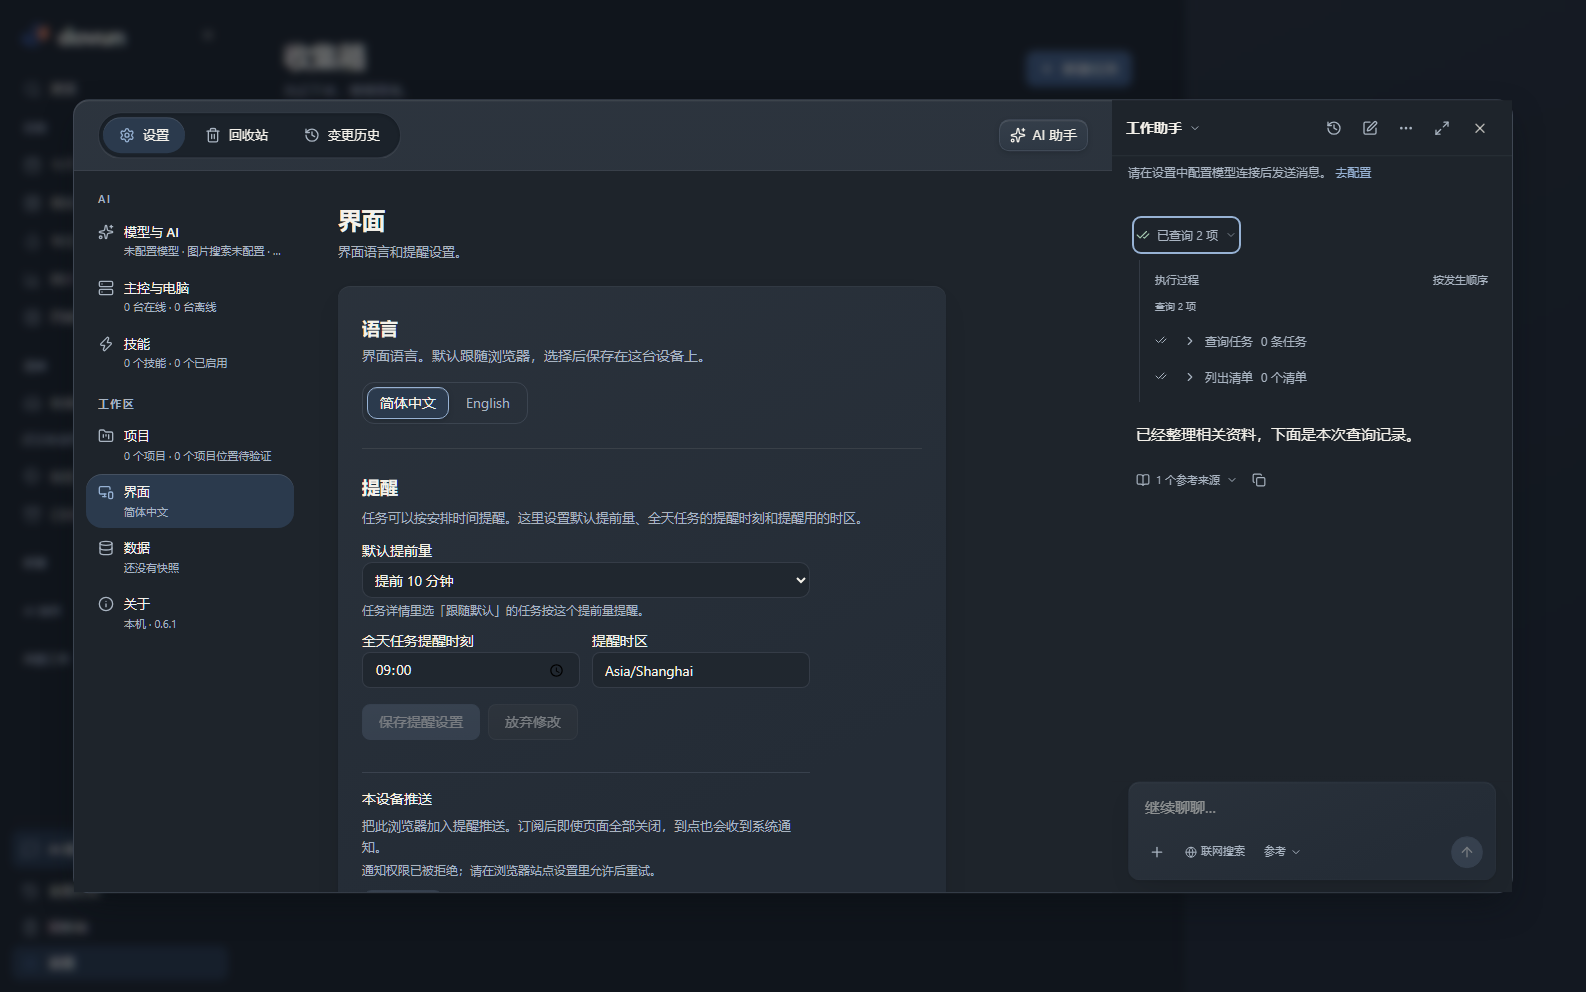
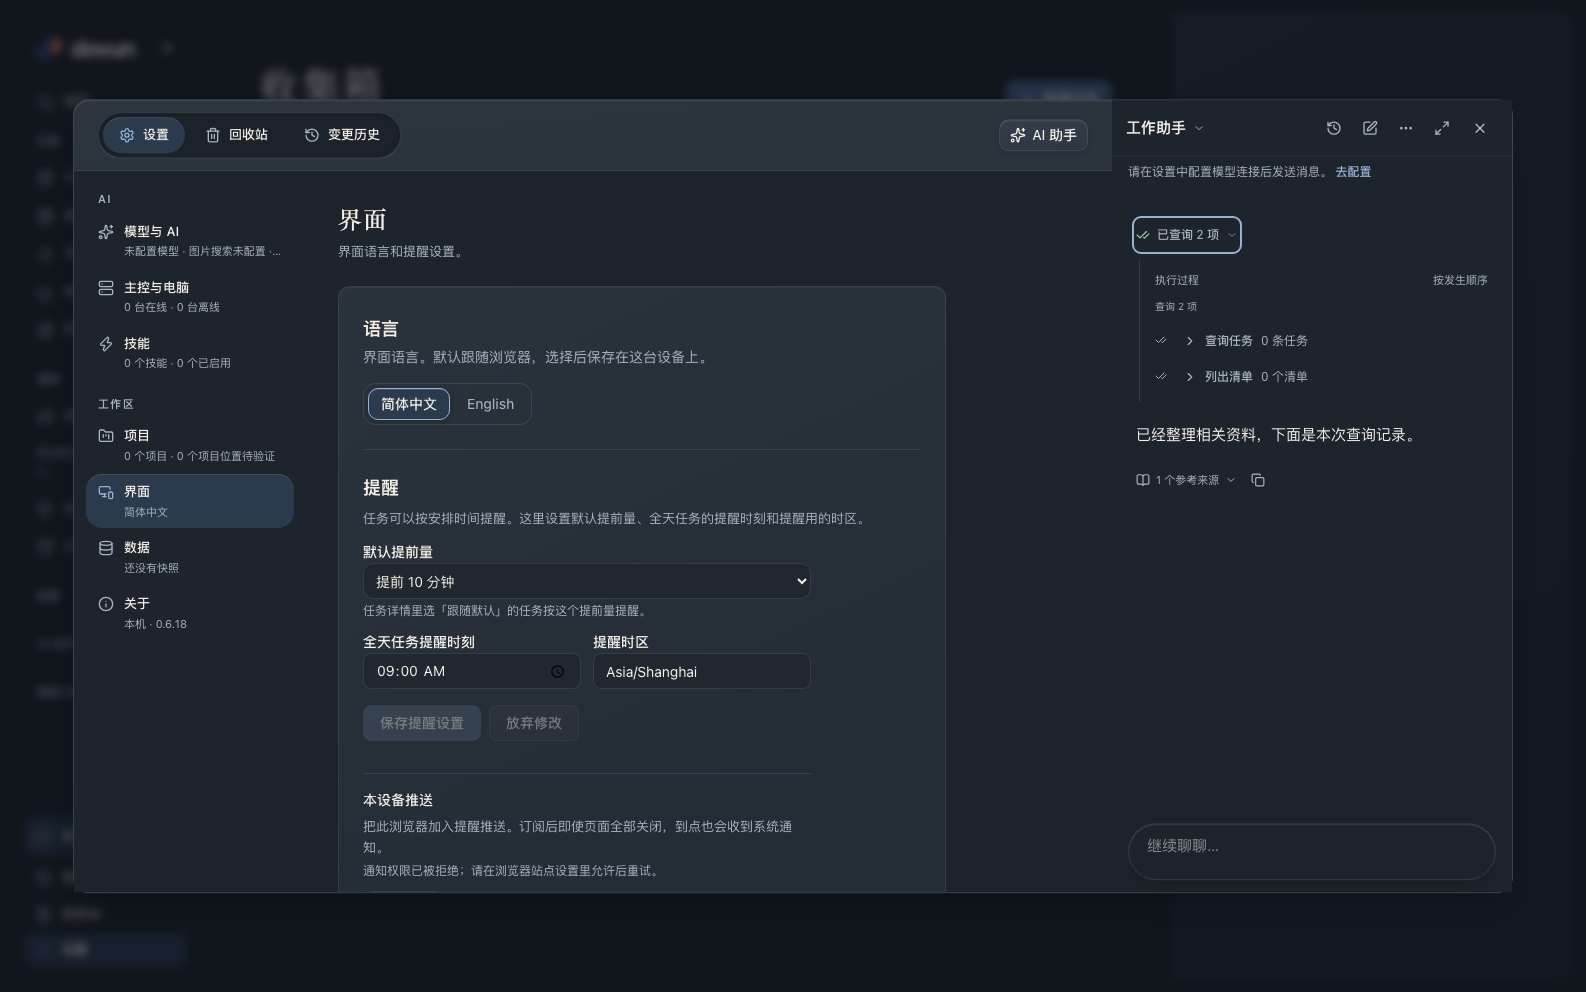
Give the assistant composer glass depth and capsule collapse

diff --git a/client/src/components/chat/ChatPanel.tsx b/client/src/components/chat/ChatPanel.tsx
@@ -141,10 +141,9 @@ export function ChatPanel({ chat, identityId = 'work', onSwitchIdentity, onClose
       <div className="assistant-composer-area shrink-0" data-testid="assistant-context">
         {mobile && onOpenNavigation && <div className="assistant-nav-row"><Button variant="ghost" size="icon" className="assistant-nav-bubble" aria-label={t('app:shell.mainNav')} title={t('app:shell.mainNav')} onClick={onOpenNavigation}><PanelLeft className="size-4" /></Button></div>}
         {chat.attachments.length > 0 && <div className="assistant-attachments">{chat.attachments.map((item) => <div className="assistant-attachment" key={item.id}><span className="min-w-0 flex-1 truncate">{t(item.unsaved ? 'chatPanel.unsavedAttachment' : 'chatPanel.selectedAttachment', { title: item.title })}</span><Button variant="ghost" size="icon-xs" onClick={() => chat.removeAttachment(item.id)} aria-label={t('chatPanel.removeAttachment', { title: item.title })}><X /></Button></div>)}</div>}
-        <ChatComposer input={input} busy={busy} reference={referencedApproval} onChange={setInput} onSend={send} onCancelReference={clearReference} placeholder={messages.length ? t('composer.continuePlaceholder') : t('composer.placeholder')} onStop={() => void chat.stop()} stopping={chat.stopping} model={<ChatModelPicker settings={settings.data} disabled={busy} />} contextUsage={<Button ref={usageTrigger} type="button" variant="plain" size="bare" className="assistant-context-trigger shrink-0" data-testid="context-usage-trigger" aria-label={t('usage.open')} title={t('usage.open')} onClick={() => setUsageOpen(true)}>{t('usage.shortTitle')}</Button>} toolbar={<>
+        <ChatComposer input={input} busy={busy} reference={referencedApproval} onChange={setInput} onSend={send} onCancelReference={clearReference} placeholder={messages.length ? t('composer.continuePlaceholder') : t('composer.placeholder')} onStop={() => void chat.stop()} stopping={chat.stopping} model={<ChatModelPicker settings={settings.data} disabled={busy} />} contextUsage={<Button ref={usageTrigger} type="button" variant="plain" size="bare" className="assistant-context-trigger shrink-0" data-testid="context-usage-trigger" aria-label={t('usage.open')} title={t('usage.open')} onClick={() => setUsageOpen(true)}>{t('usage.shortTitle')}</Button>} contextPill={chat.context && <Popover><PopoverTrigger asChild><Button variant="plain" size="bare" type="button" className="assistant-context-trigger shrink-0" data-testid="assistant-context-trigger" title={chat.contextCleared ? t('chatPanel.noReference') : chat.context.label}><span>{t(chat.pinned ? 'chatPanel.referencePinned' : 'chatPanel.reference')}{materialCount > 0 && ` · ${materialCount}`}</span><span className="sr-only"> {chat.contextCleared ? t('chatPanel.noReference') : chat.context.label}</span><ChevronDown className="size-3" /></Button></PopoverTrigger><PopoverContent data-assistant-floating side="top" onEscapeKeyDown={event => event.stopPropagation()} className="w-80 max-w-[calc(100vw-2rem)] p-3"><h3 className="mb-2 text-sm font-semibold">{t('chatPanel.referenceScope')}</h3>{chat.contextCleared ? <p className="py-1 text-xs text-muted-foreground">{t('chatPanel.noReference')}</p> : <ContextSummary context={chat.context} />}<div className="mt-2 flex flex-wrap gap-2"><Button size="sm" variant="ghost" onClick={chat.pinContext}>{t('chatPanel.pinContext')}</Button><Button size="sm" variant="ghost" disabled={chat.contextCleared && chat.attachments.length === 0} onClick={chat.clearContext}>{t('chatPanel.clearContext')}</Button></div></PopoverContent></Popover>} toolbar={<>
           <ChatReferencePicker selectedIds={chat.context?.selectedMaterialIds ?? []} onSelect={chat.addMaterial} />
           <WebSearchToggle enabled={chat.webSearchEnabled} busy={busy} onToggle={chat.setWebSearch} />
-          {chat.context && <Popover><PopoverTrigger asChild><Button variant="plain" size="bare" type="button" className="assistant-context-trigger" data-testid="assistant-context-trigger" title={chat.contextCleared ? t('chatPanel.noReference') : chat.context.label}><span>{t(chat.pinned ? 'chatPanel.referencePinned' : 'chatPanel.reference')}{materialCount > 0 && ` · ${materialCount}`}</span><span className="sr-only"> {chat.contextCleared ? t('chatPanel.noReference') : chat.context.label}</span><ChevronDown className="size-3" /></Button></PopoverTrigger><PopoverContent data-assistant-floating side="top" onEscapeKeyDown={event => event.stopPropagation()} className="w-80 max-w-[calc(100vw-2rem)] p-3"><h3 className="mb-2 text-sm font-semibold">{t('chatPanel.referenceScope')}</h3>{chat.contextCleared ? <p className="py-1 text-xs text-muted-foreground">{t('chatPanel.noReference')}</p> : <ContextSummary context={chat.context} />}<div className="mt-2 flex flex-wrap gap-2"><Button size="sm" variant="ghost" onClick={chat.pinContext}>{t('chatPanel.pinContext')}</Button><Button size="sm" variant="ghost" disabled={chat.contextCleared && chat.attachments.length === 0} onClick={chat.clearContext}>{t('chatPanel.clearContext')}</Button></div></PopoverContent></Popover>}
         </>} />
       </div>
       {usageOpen && <Modal title={t('usage.title')} onClose={() => setUsageOpen(false)} onCloseAutoFocus={event => { event.preventDefault(); if (usageTrigger.current?.getClientRects().length) usageTrigger.current.focus(); }} data-assistant-floating className="assistant-usage-dialog"><header className="mb-3 flex justify-end"><Button variant="ghost" size="icon-sm" aria-label={t('chatPanel.closeDetails')} onClick={() => setUsageOpen(false)}><X /></Button></header><ContextUsageDetails stats={chat.contextStats} preview={chat.contextPreview} busy={busy} onNavigate={() => setUsageOpen(false)} /></Modal>}

diff --git a/client/src/components/chat/ChatComposer.tsx b/client/src/components/chat/ChatComposer.tsx
@@ -8,7 +8,7 @@ import { Textarea } from '@/components/ui/textarea.js';
 
 const LINE_HEIGHT = 20;
 const INPUT_PAD = 8;
-const EXPANDED_LINES = 3;
+const EXPANDED_LINES = 4;
 const MAX_LINES = 8;
 
 type ChatComposerProps = {
@@ -20,6 +20,7 @@ type ChatComposerProps = {
   onCancelReference?: () => void;
   toolbar?: ReactNode;
   contextUsage?: ReactNode;
+  contextPill?: ReactNode;
   model?: ReactNode;
   onStop?: () => void;
   stopping?: boolean;
@@ -33,7 +34,7 @@ type ChatComposerProps = {
 };
 
 export function ChatComposer({
-  input, busy, reference, onChange, onSend, onCancelReference, toolbar, contextUsage, model, onStop, stopping,
+  input, busy, reference, onChange, onSend, onCancelReference, toolbar, contextUsage, contextPill, model, onStop, stopping,
   placeholder, maxLength, actionsDisabled, sendDisabled, allowSendWhileBusy, labels, listenForAssistantFocus = true,
 }: ChatComposerProps) {
   const { t } = useTranslation('chat');
@@ -117,28 +118,33 @@ export function ChatComposer({
           <Button variant="plain" size="bare" type="button" className="shrink-0" onClick={onCancelReference}>{t('composer.removeReference')}</Button>
         </div>
       )}
-      <Surface as="div" tone="input" className="assistant-input-box p-3">
-        <Textarea variant="inline"
-          ref={textareaRef}
-          aria-label={labels?.input ?? t('composer.askAi')}
-          value={input}
-          rows={1}
-          maxLength={maxLength}
-          placeholder={placeholder ?? t('composer.placeholder')}
-          className="w-full resize-none px-1 py-1 text-[13px] leading-5 transition-[height] duration-150 ease-out"
-          onFocus={() => { cancelCollapse.current(); setFocused(true); setJustSent(false); }}
-          onBlur={handleBlur}
-          onChange={(event) => { setJustSent(false); onChange(event.target.value); }}
-          onCompositionStart={() => { composing.current = true; }}
-          onCompositionEnd={() => { composing.current = false; }}
-          onKeyDown={onKeyDown}
-        />
-        <div className="mt-2 flex min-w-0 items-center gap-2">
-          {toolbar}
-          <span className="flex min-w-0 flex-1 items-center truncate text-[11px] text-muted-foreground">{model}</span>
+      <Surface as="div" tone="input" className="assistant-input-box" data-tools={expanded || busy ? 'open' : 'folded'}>
+        <div className="composer-field">
+          <Textarea variant="inline"
+            ref={textareaRef}
+            aria-label={labels?.input ?? t('composer.askAi')}
+            value={input}
+            rows={1}
+            maxLength={maxLength}
+            placeholder={placeholder ?? t('composer.placeholder')}
+            className="min-w-0 flex-1 resize-none px-1 py-1 text-[13px] leading-5 transition-[height] duration-[240ms] ease-[cubic-bezier(0.23,1,0.32,1)]"
+            onFocus={() => { cancelCollapse.current(); setFocused(true); setJustSent(false); }}
+            onBlur={handleBlur}
+            onChange={(event) => { setJustSent(false); onChange(event.target.value); }}
+            onCompositionStart={() => { composing.current = true; }}
+            onCompositionEnd={() => { composing.current = false; }}
+            onKeyDown={onKeyDown}
+          />
+          {contextPill}
           {contextUsage}
-          {busy && <Button type="button" size="icon" className="size-8 rounded-full" onClick={onStop} disabled={stopping || actionsDisabled} aria-label={labels?.stop ?? t('composer.stop')} title={labels?.stop}><Square className="size-3 fill-current" /></Button>}
-          {showSend && <Button type="submit" size="icon" className="size-8 rounded-full" disabled={!canSend} aria-label={labels?.send ?? t('composer.send')} title={labels?.send}><ArrowUp /></Button>}
+        </div>
+        <div className="composer-tools">
+          <div className="flex min-w-0 items-center gap-2">
+            {toolbar}
+            <span className="flex min-w-0 flex-1 items-center truncate text-[11px] text-muted-foreground">{model}</span>
+            {busy && <Button type="button" size="icon" className="size-8 rounded-full" onClick={onStop} disabled={stopping || actionsDisabled} aria-label={labels?.stop ?? t('composer.stop')} title={labels?.stop}><Square className="size-3 fill-current" /></Button>}
+            {showSend && <Button type="submit" size="icon" className="size-8 rounded-full" disabled={!canSend} aria-label={labels?.send ?? t('composer.send')} title={labels?.send}><ArrowUp /></Button>}
+          </div>
         </div>
       </Surface>
       {stopping && <p className="text-center text-[10px] text-muted-foreground">{t('composer.stopping')}</p>}

diff --git a/client/src/components/chat/conversation.css b/client/src/components/chat/conversation.css
@@ -61,13 +61,35 @@
 .assistant-source-number { width: 18px; flex-shrink: 0; font-size: 10px; text-align: center; }
 .assistant-inline-citation { display: inline-grid; place-items: center; min-width: 22px; height: 22px; margin-inline: 4px; padding-inline: 4px; position: relative; top: -1px; border-radius: 5px; background: var(--muted); color: var(--muted-foreground); font-size: 10px; line-height: 1; vertical-align: baseline; }
 .assistant-source-preview { overflow-wrap: anywhere; }
-.dovun-assistant .assistant-composer-area { width: min(100%, 792px); margin-inline: auto; padding: 0 16px max(12px, env(safe-area-inset-bottom)); position: relative; background: var(--background); }
+.dovun-assistant .assistant-composer-area { width: min(100%, 792px); margin-inline: auto; padding: 0 16px max(12px, env(safe-area-inset-bottom)); position: relative; background: transparent; }
 .assistant-composer-area::before { content: ''; pointer-events: none; height: 18px; position: absolute; inset: -18px 0 auto; background: linear-gradient(transparent, var(--background)); }
 .dovun-assistant .assistant-composer { width: 100%; padding: 0; }
-.dovun-assistant .assistant-input-box { padding: 11px 12px 9px; border: 1px solid var(--border); border-radius: 22px; background: color-mix(in srgb, var(--muted) 48%, var(--background)); box-shadow: none; }
+/* 输入卡片：毛玻璃 + 收起胶囊/展开大圆角（ChatGPT 形态）。玻璃 token 由 approved-tokens.json 生成。 */
+.dovun-assistant .assistant-input-box {
+  --composer-motion: 240ms cubic-bezier(0.23, 1, 0.32, 1);
+  padding: 7px 14px;
+  border: 1px solid var(--border);
+  border-radius: 999px;
+  background: var(--surface-input-glass);
+  backdrop-filter: blur(var(--surface-input-blur)) saturate(1.4);
+  -webkit-backdrop-filter: blur(var(--surface-input-blur)) saturate(1.4);
+  box-shadow: inset 0 1px 0 var(--glass-highlight), 0 8px 28px -8px rgb(20 28 44 / 0.14);
+  transition: border-radius var(--composer-motion), padding var(--composer-motion), box-shadow var(--composer-motion), background-color var(--composer-motion);
+}
+.dark .dovun-assistant .assistant-input-box { box-shadow: inset 0 1px 0 var(--glass-highlight), 0 8px 28px -8px rgb(0 0 0 / 0.35); }
+.dovun-assistant .assistant-input-box[data-tools='open'] { padding: 12px 14px; border-radius: 26px; }
 .dovun-assistant .assistant-input-box:focus-within { border-color: color-mix(in srgb, var(--muted-foreground) 50%, var(--border)); }
 .dovun-assistant .assistant-input-box textarea { font-size: 15px; }
-.dovun-assistant .assistant-input-box > div:last-child { gap: 3px; }
+/* 输入行：textarea 在左，上下文入口常驻右端（收起胶囊也保留，发送后可直接固定参考范围）。 */
+.dovun-assistant .assistant-input-box .composer-field { display: flex; align-items: flex-end; gap: 8px; }
+.dovun-assistant .assistant-input-box .composer-tools {
+  display: grid;
+  grid-template-rows: 1fr;
+  opacity: 1;
+  transition: grid-template-rows var(--composer-motion), opacity 180ms cubic-bezier(0.23, 1, 0.32, 1);
+}
+.dovun-assistant .assistant-input-box[data-tools='folded'] .composer-tools { grid-template-rows: 0fr; opacity: 0; }
+.dovun-assistant .assistant-input-box .composer-tools > div { overflow: hidden; min-height: 0; margin-top: 8px; gap: 3px; }
 .assistant-context-trigger { display: flex; align-items: center; gap: 4px; min-height: 36px; padding: 0 7px; font-size: 11px; color: var(--muted-foreground); }
 .assistant-attachments { display: flex; flex-wrap: wrap; gap: 6px; margin-bottom: 8px; }
 .assistant-attachment { display: flex; align-items: center; gap: 7px; min-width: 0; max-width: 100%; padding: 3px 6px 3px 10px; border: 1px solid var(--border); border-radius: 9px; font-size: 11px; }
@@ -94,3 +116,4 @@
 .markdown-table-record dd { margin: 0; overflow-wrap: anywhere; }
 @media (max-width: 640px) { .dovun-assistant .assistant-header { padding-inline: 10px; } .dovun-assistant .assistant-messages [data-chat-scroll] { padding: 23px 21px 30px; } .dovun-assistant .assistant-composer-area { padding-inline: 12px; } .assistant-user-message { max-width: 94%; } }
 @media (prefers-reduced-motion: reduce) { .assistant-reasoning svg, .assistant-tool-run svg { animation: none; transition: none; } }
+@media (prefers-reduced-motion: reduce) { .dovun-assistant .assistant-input-box, .dovun-assistant .assistant-input-box .composer-tools { transition: none; } }

diff --git a/e2e/chat-reading.spec.ts b/e2e/chat-reading.spec.ts
@@ -104,6 +104,8 @@ test('context settings navigation closes usage details and long model names fit 
   await request.patch(`${api}/api/settings`, { data: { model: `model-${'long-name-'.repeat(25)}` } });
   await page.setViewportSize({ width: 320, height: 740 });
   await page.goto('/#/chat');
+  // 模型入口在收起态随工具行折叠，展开输入框后再点。
+  await page.getByRole('textbox', { name: '向 AI 提问' }).focus();
   await page.getByTestId('assistant-model-trigger').click();
   const models = page.getByRole('listbox', { name: '获取模型列表' });
   const bounds = (await models.boundingBox())!;
@@ -125,6 +127,7 @@ test('composer model picker switches and persists the active profile model', asy
   await page.goto('/#/chat');
   const trigger = page.getByTestId('assistant-model-trigger');
   await expect(trigger).toHaveText('mock-model');
+  await page.getByRole('textbox', { name: '向 AI 提问' }).focus();
   await trigger.click();
   await page.getByRole('button', { name: '获取模型列表', exact: true }).click();
   await page.getByRole('option', { name: /mock-model-next/ }).click();

diff --git a/client/src/styles/workspace-material.css b/client/src/styles/workspace-material.css
@@ -136,7 +136,6 @@
 .dovun-assistant { background: var(--background); }
 .workspace-chat-prompts { width: min(100%, 760px); margin: 18px auto 24px; }
 .workspace-chat-prompts button { min-height: 48px; font-size: 13px; }
-.dovun-assistant .assistant-composer .assistant-input-box { border: 1px solid transparent; border-radius: 12px; background: var(--workspace-sheet-paint); box-shadow: var(--workspace-sheet-shadow); }
 .dovun-assistant .assistant-composer .assistant-input-box:focus-within { border-color: var(--ring); }
 .dovun-rail-header, .assistant-header { border-bottom-color: var(--workspace-divider); }
 
@@ -334,7 +333,7 @@
   font-size: 15px;
 }
 
-:root:not(.dark) .dovun-assistant :is(.workspace-chat-prompts, .assistant-input-box) {
+:root:not(.dark) .dovun-assistant .workspace-chat-prompts {
   border: 1px solid var(--porcelain-rule);
   background: var(--porcelain-sheet);
   box-shadow: var(--porcelain-lift);

diff --git a/client/src/styles/control-tokens.css b/client/src/styles/control-tokens.css
@@ -109,6 +109,8 @@
   --surface-input-height: 36px;
   --surface-input-duration: 140ms;
   --surface-input-disabled-opacity: 0.4;
+  --surface-input-blur: 18px;
+  --surface-input-glass: rgb(242 239 232 / 0.62);
   --surface-card-bg: #fffdf8;
   --surface-card-paint: linear-gradient(175deg, color-mix(in srgb, #fffdf8 92%, #ffffff), color-mix(in srgb, #fffdf8 96.4%, #000000));
   --surface-card-border: 1px solid rgb(86 98 111 / 0.23);
@@ -257,6 +259,8 @@
   --surface-input-height: 36px;
   --surface-input-duration: 140ms;
   --surface-input-disabled-opacity: 0.4;
+  --surface-input-blur: 20px;
+  --surface-input-glass: rgb(27 34 42 / 0.62);
   --surface-card-bg: #2a333e;
   --surface-card-paint: linear-gradient(175deg, color-mix(in srgb, #2a333e 97%, #ffffff), color-mix(in srgb, #2a333e 98.65%, #000000));
   --surface-card-border: 1px solid rgb(148 163 183 / 0.18);

diff --git a/e2e/composer-expand.spec.ts b/e2e/composer-expand.spec.ts
@@ -4,7 +4,7 @@ import { test, expect } from './fixtures.js';
 import { e2eDatabase, resetE2eDatabase } from './database.js';
 const api = process.env.E2E_API_URL ?? 'http://127.0.0.1:3015';
 
-// 行为基准：单行 ≈ 28px（20px 行高 + 8px 上下内边距），展开 3 行 ≈ 68px，8 行封顶 ≈ 168px。
+// 行为基准：单行 ≈ 28px（20px 行高 + 8px 上下内边距），展开 4 行 ≈ 88px，8 行封顶 ≈ 168px。
 const COLLAPSED_MAX = 34;
 const EXPANDED_MIN = 58;
 const EXPANDED_MAX = 174;

diff --git a/client/src/styles/workspace-porcelain.css b/client/src/styles/workspace-porcelain.css
@@ -166,11 +166,11 @@
   font-size: 15px;
 }
 
-:root .dovun-assistant :is(.workspace-chat-prompts, .assistant-input-box) {
+:root .dovun-assistant .workspace-chat-prompts {
   border: 1px solid var(--workspace-divider);
 }
 
-:root:not(.dark) .dovun-assistant :is(.workspace-chat-prompts, .assistant-input-box) {
+:root:not(.dark) .dovun-assistant .workspace-chat-prompts {
   background: var(--porcelain-sheet);
   box-shadow: var(--preview-lift);
 }
